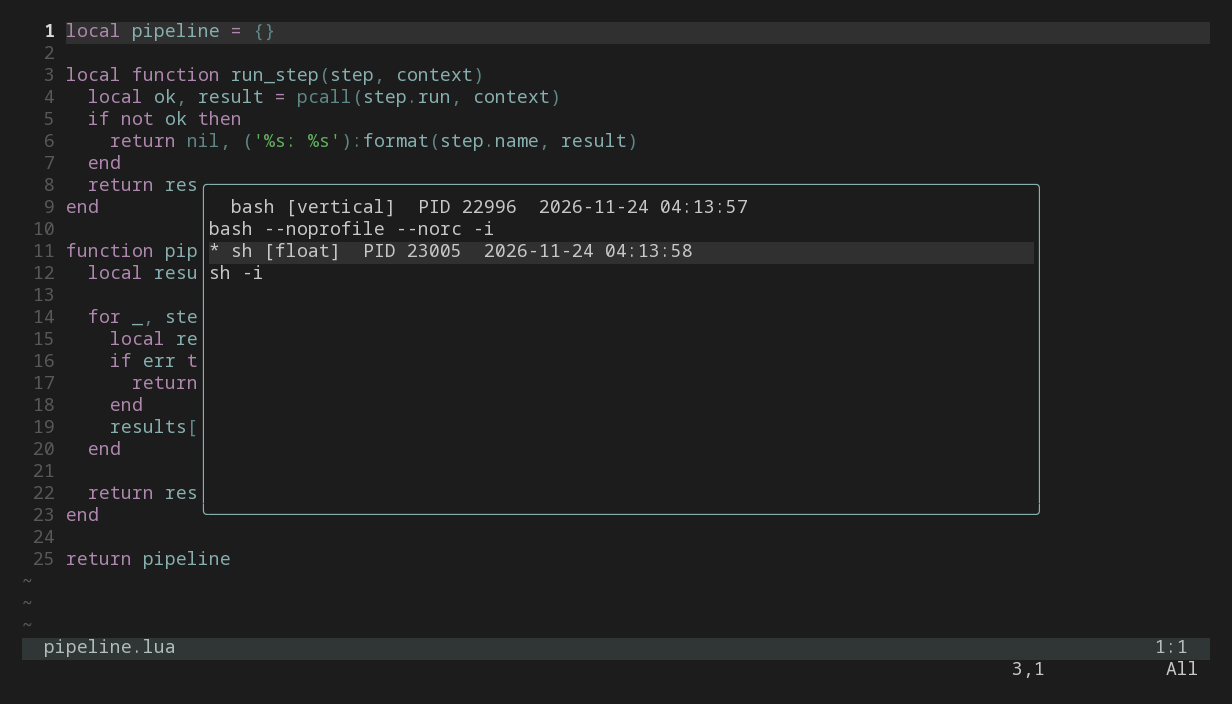
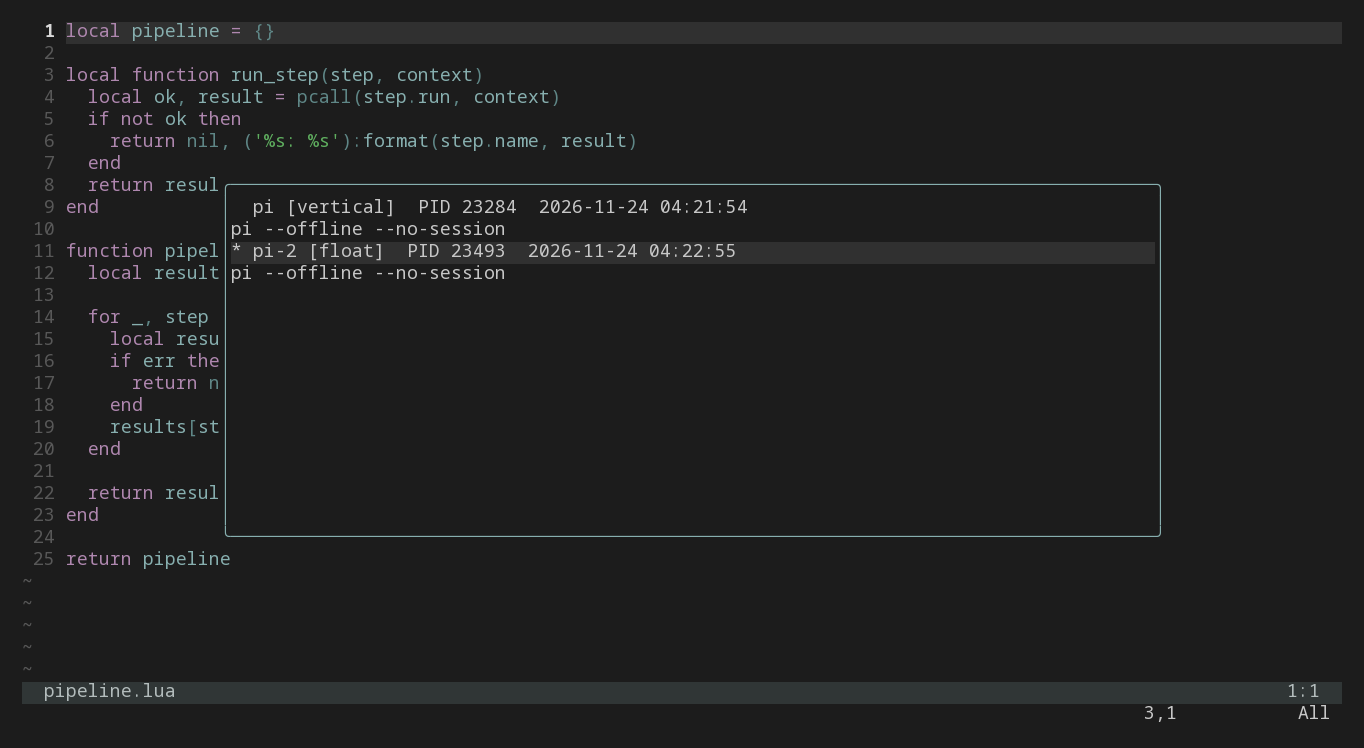
Show Pi sessions in Neovim screenshots

Changed region(s): [[0.0308, 0.0312, 0.6169, 0.8125], [0.0, 0.9062, 0.987, 0.9688], [0.8328, 0.6875, 0.8636, 0.7188]]

diff --git a/README.md b/README.md
@@ -7,18 +7,20 @@ Version: v0.4.2
 
 ## Screenshots
 
-![A terminal running checks beside a Lua file in a vertical split](assets/vertical-split.png)
+Pi running project checks beside a Lua file in a vertical split.
+
+![Pi displaying two passing checks in a vertical split](assets/vertical-split.png)
 
 <details>
 <summary>Floating terminal and agent list</summary>
 
 `:OpenFloat` opens a terminal over the current editor window.
 
-![A floating terminal showing a Git diff summary](assets/floating-terminal.png)
+![Pi displaying a Git diff summary in a floating terminal](assets/floating-terminal.png)
 
 `:ListAgent` shows running sessions and marks the selected agent with an asterisk.
 
-![The agent list showing two live sessions, their layouts, PIDs, and launch times](assets/agent-list.png)
+![The agent list showing two live Pi sessions, their layouts, PIDs, and launch times](assets/agent-list.png)
 
 </details>
 
